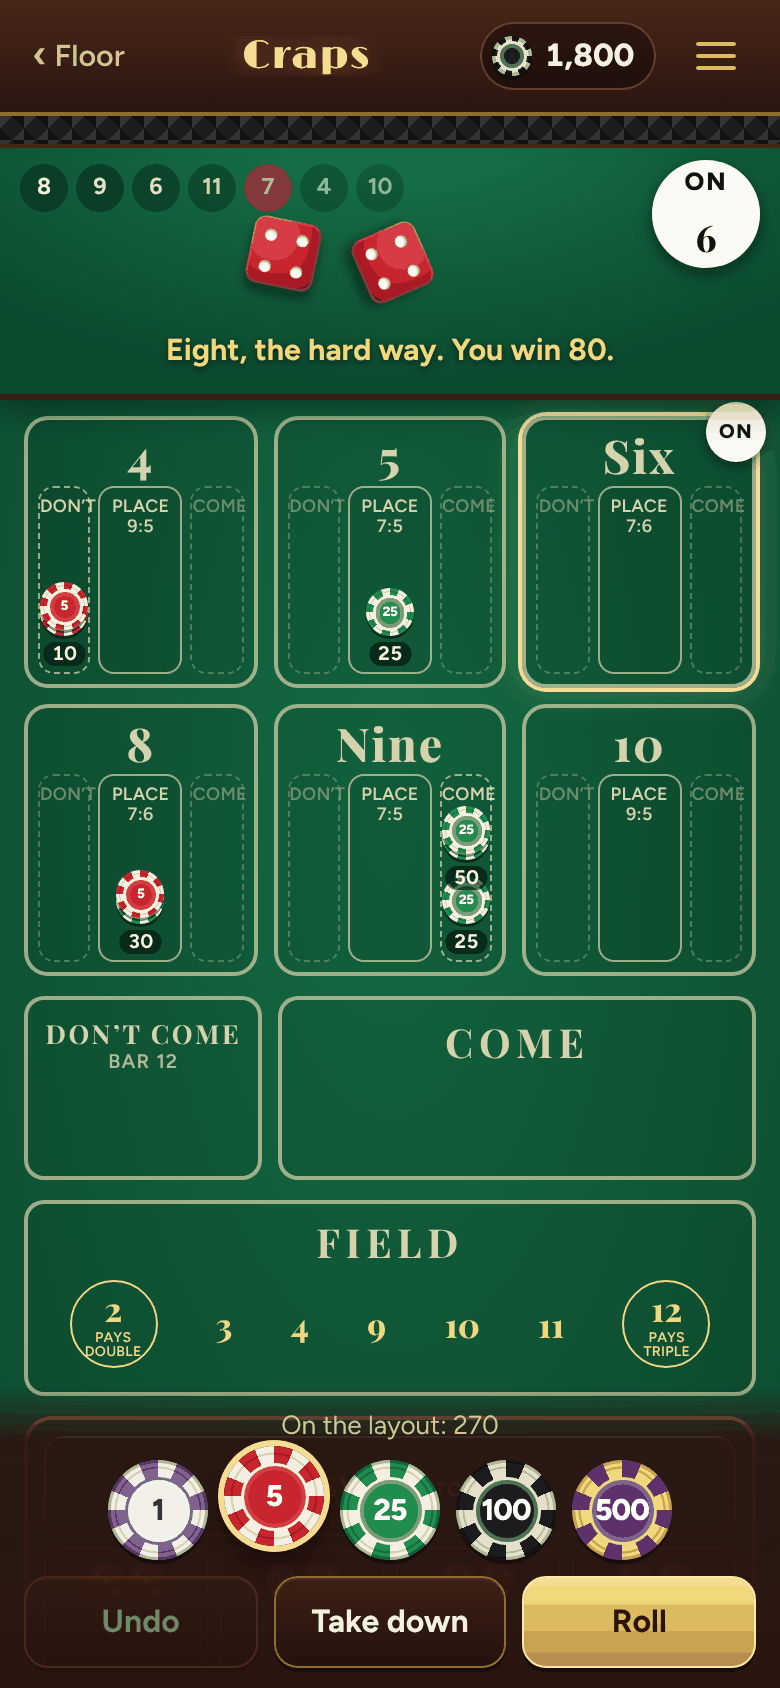
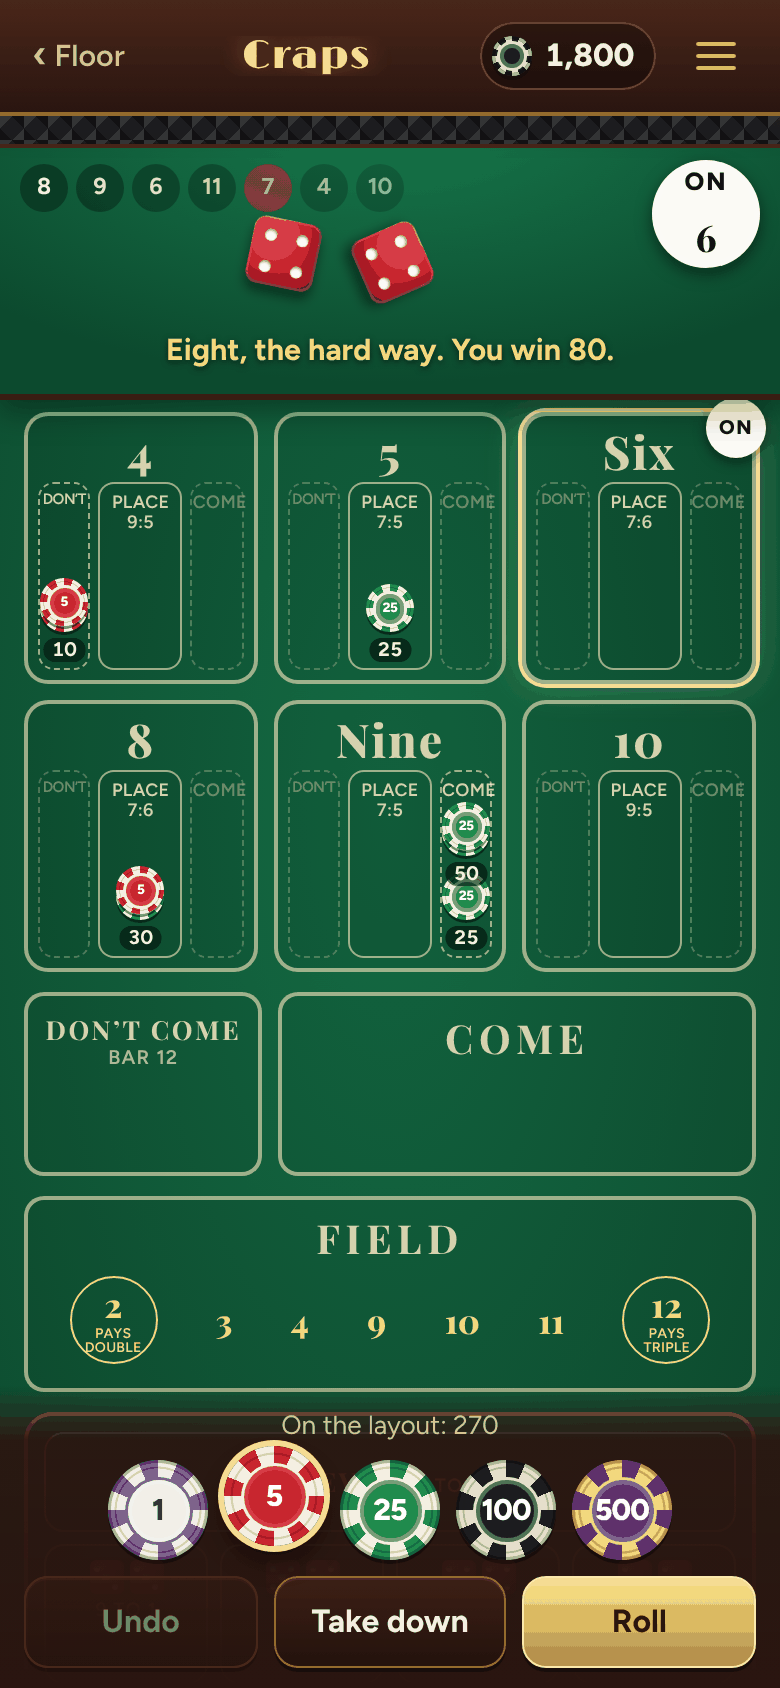
Craps brings the pass line into view on the come-out
A new player at craps was told twice, by the stickman and by the line over the rack, to start on the pass line, but on a phone the pass line is the last box on the layout, about a screen down, and at 1280x800 it sat half under the dock. Now on arrival, and after a seven out or a point made with nothing on the line, the layout scrolls the pass line up to rest just above the dock (smoothly, unless reduced motion is on), and the stickman calls "Coming out: bets on the pass line." after those rolls. The line over the rack no longer repeats him: it shows what's on the layout once bets are down. Come and don't come bets that travel, and don't bets that stand off on the 12, now say so ("Six, the hard way. Your come bet goes to the 6.", "Don't pass pushes on the 12."), since that happens in boxes that are often out of sight. The DON'T labels in the number boxes are a size smaller so they fit between the dashes at 390 and 360 wide. The e2e test checks the pass line is in view above the dock on a first visit at 390x844 and 1280x800, and a travelling come bet's line. The README's craps picture and the floor's craps tile are regenerated.

Claude-Session: https://claude.ai/code/session_01PQbLNUqCq985TAYanzzHkW

diff --git a/craps/js/app.js b/craps/js/app.js
@@ -66,9 +66,23 @@ const table = mountTable({
 });
 
 const rack = makeRack($('rack'), { values: [1, 5, 25, 100, 500], key: 'house-money.craps.chip' });
-const bar = document.querySelector('header.bar');
-const setBarH = () => document.body.style.setProperty('--bar-h', `${bar.offsetHeight}px`);
+const bar = document.querySelector('header.bar'), dock = document.querySelector('.dock');
+// the heights of the bar (the pit sticks under it) and of the dock (the pass line comes to rest just above it)
+const setBarH = () => {
+  document.body.style.setProperty('--bar-h', `${bar.offsetHeight}px`);
+  document.body.style.setProperty('--dock-h', `${dock.offsetHeight}px`);
+};
 setBarH(); addEventListener('resize', setBarH);
+
+// On a come-out with nothing on the line, the pass line is brought up to sit just above the dock: on arrival, and after
+// a seven out or a point made. (It's the last thing on the layout, a screen or more down on a phone.)
+const lineEmpty = () => !s.bets.pass && !s.bets.dontPass;
+function toPassLine() {
+  if (s.point || !lineEmpty()) return;
+  setBarH();
+  const still = fast || matchMedia('(prefers-reduced-motion: reduce)').matches;
+  document.querySelector('.line.pass').scrollIntoView({ block: 'end', behavior: still ? 'instant' : 'smooth' });
+}
 
 function load() {
   try {
@@ -157,7 +171,8 @@ function paint() {
   $('clear').disabled = busy || !Object.keys(s.bets).some(k => g.removable(s, k));
   $('roll').disabled = busy || !total;
   const short = g.LINE.filter(k => b[k] && b[k] < T.min);
-  $('onfelt').textContent = !total ? (s.point ? `The point is ${s.point}. Bet Come, place a number, or anything in the middle.` : 'Come-out roll. Start on the pass line.')
+  // (on the come-out with nothing down, the stickman's line says where to start, so this says nothing)
+  $('onfelt').textContent = !total ? (s.point ? `The point is ${s.point}. Bet Come, place a number, or anything in the middle.` : '')
     : short.length ? `${g.NAMES[short[0]]} needs at least ${T.min}.` : `On the layout: ${cage.fmt(total)}`;
   if (short.length) $('roll').disabled = true;
   table.check();
@@ -318,11 +333,17 @@ function roll() {
       paint();
       finish();
       const net = won - lost;
+      // bets that moved or stood off, which nothing else on screen says: "Your come bet goes to the 6."
+      const moved = r.events.map(e => e.outcome === 'move' ? ` Your ${e.spot === 'come' ? 'come' : 'don’t come'} bet goes to the ${r.total}.`
+        : e.outcome === 'push' ? ` ${e.spot === 'dontPass' ? 'Don’t pass' : 'Don’t come'} pushes on the 12.` : '').join('');
+      // a new come-out with nothing on the line: the stickman calls for bets, and the pass line comes into view
+      const comeOut = (r.point.made || r.point.sevenOut) && lineEmpty() ? ' Coming out: bets on the pass line.' : '';
       const sum = won && lost ? ` You win ${cage.fmt(won)} and lose ${cage.fmt(lost)}.` : won ? ` You win ${cage.fmt(won)}.` : lost ? ` You lose ${cage.fmt(lost)}.` : '';
       // odds that don't pay whole chips: the fraction is kept, or finishes a chip with what was kept before
       const frac = r.carry.now > r.carry.was ? ' The fraction of a chip left over is kept for your next odds win.'
         : r.carry.now < r.carry.was ? ' That includes the fraction kept from before.' : '';
-      table.say(`${r.call}${sum}${frac}`, net > 0 ? 'win' : net < 0 ? 'lose' : '');
+      table.say(`${r.call}${moved}${sum}${frac}${comeOut}`, net > 0 ? 'win' : net < 0 ? 'lose' : '');
+      if (comeOut) toPassLine();
       if (won) { sound.chips(4); sound.win(won >= 10 * Math.max(1, lost) && won >= 100 ? 3 : won >= 100 ? 2 : 1); } else if (lost) sound.lose();
     } finally { busy = false; paint(); }
   })();
@@ -355,3 +376,4 @@ if (s.history?.length) {
   diceBox.append(...[d1, d2].map((v, i) => { const d = dieEl(v); d.style.left = `${pit.clientWidth * .4 + i * 46}px`; d.style.top = '54px'; return d; }));
 }
 table.say(s.point ? `The point is ${s.point}.` : 'Coming out. Bets on the pass line.');
+toPassLine();

diff --git a/craps/css/craps.css b/craps/css/craps.css
@@ -109,6 +109,8 @@
 .slot i { position: absolute; left: 0; right: 0; top: 4px; font: 600 .56rem/1.05 var(--sans); font-style: normal; letter-spacing: .02em; text-transform: uppercase; text-align: center; pointer-events: none; }
 .slot .stack { bottom: 18px; }
 .slot.dc, .slot.cm { border-style: dashed; }
+/* the narrow don't come slots: small enough that DON'T fits between the dashes on a phone */
+.slot.dc i { font-size: .47rem; letter-spacing: -.03em; }
 .slot .stack .amt { font-size: .62rem; padding: 1px 4px; }
 
 .comes { display: grid; grid-template-columns: 1fr 2fr; gap: 8px; }
@@ -138,6 +140,8 @@
 .line .area { min-height: 84px; }
 .line .area .lbl { position: absolute; top: 10px; left: 0; right: 0; }
 .line.pass .area.pass { min-height: 96px; }
+/* brought into view on the come-out, just above the dock */
+.line.pass { scroll-margin-bottom: calc(var(--dock-h, 150px) + 8px); }
 .area.odds { border-style: dashed; }
 
 /* ---------- the dock ---------- */

diff --git a/sw.js b/sw.js
@@ -8,7 +8,7 @@
 // fingerprint of every file in SHELL: change any of them and test/e2e.mjs fails until FILES is changed to match (it
 // says what to), which changes this file, so every copy is made whole again at once.
 const CACHE = 'house-money-v4'; // bump the number when the file list changes
-const FILES = '0769a7ad'; // test/e2e.mjs checks this
+const FILES = '1dc9d78d'; // test/e2e.mjs checks this
 const SHELL = [
   './', 'baccarat/', 'blackjack/', 'cherry-bell/', 'craps/', 'motherlode/', 'odds-and-ends/', 'records/',
   'roulette/', 'video-poker/', '404.html', 'baccarat/css/baccarat.css', 'baccarat/index.html', 'baccarat/js/app.js',

diff --git a/README.md b/README.md
@@ -64,7 +64,7 @@ A single-zero wheel and the whole layout, standing upright on a phone: 0 at the 
 
 The loudest table in the house, and you're the shooter. Put chips on the layout and press Roll: two red dice tumble across the felt, bounce off the back wall's rubber pyramids, and the stickman calls it.
 
-- **The pass line.** On the come-out, 7 or 11 wins and 2, 3 or 12 loses. Any other number is the point, and the puck turns On over its box. Then the point before a 7 wins, and a 7 is the seven out. A pass bet can't come down once there's a point.
+- **The pass line.** On the come-out, 7 or 11 wins and 2, 3 or 12 loses. Any other number is the point, and the puck turns On over its box. Then the point before a 7 wins, and a 7 is the seven out. A pass bet can't come down once there's a point. On a come-out with nothing on the line (your first roll, after a seven out or a point made), the layout brings the pass line up to sit just above the rack.
 - **Odds with no house edge.** Behind the pass line, odds pay true odds: 2 to 1 on 4 and 10, 3 to 2 on 5 and 9, 6 to 5 on 6 and 8. You can bet up to 3×, 4× and 5× your line bet. Don't pass bars the 12, and its lay odds go up to 6×. An amount that doesn't pay in whole chips (5 behind a 5 is owed 7½) pays the whole chips now and keeps the fraction toward your next odds win, so odds and lay odds pay exactly true odds over time.
 - **Come and don't come.** Once there's a point, a come bet plays like a new pass line and travels up to the next number rolled. Tap the Come spot in that number's box to put odds on it. Come odds are off on the come-out, and lay odds on a don't come always work.
 - **Place bets** pay 9 to 5 on 4 and 10, 7 to 5 on 5 and 9, and 7 to 6 on 6 and 8. They're off on the come-out, and the odd chips are paid down, so a bet that won't pay whole says so as it goes down, and what would: "Five on the 6 pays 5. Make it 6 and it pays 7."
